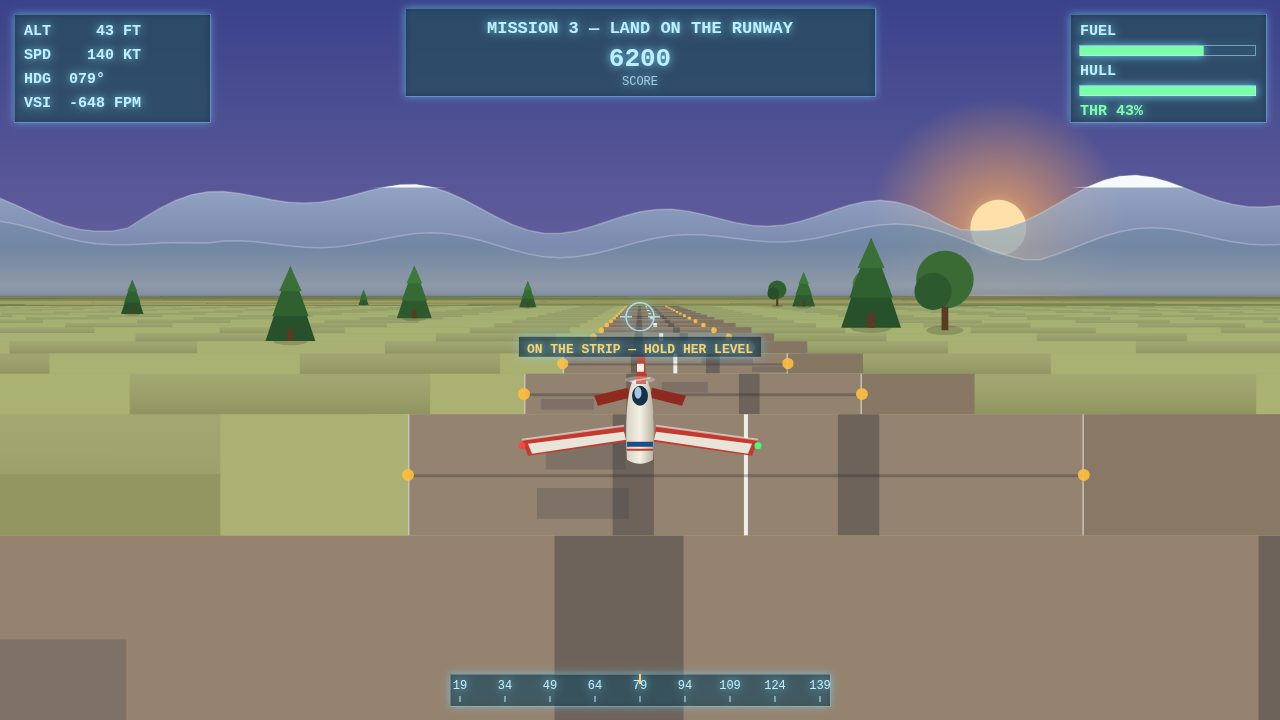
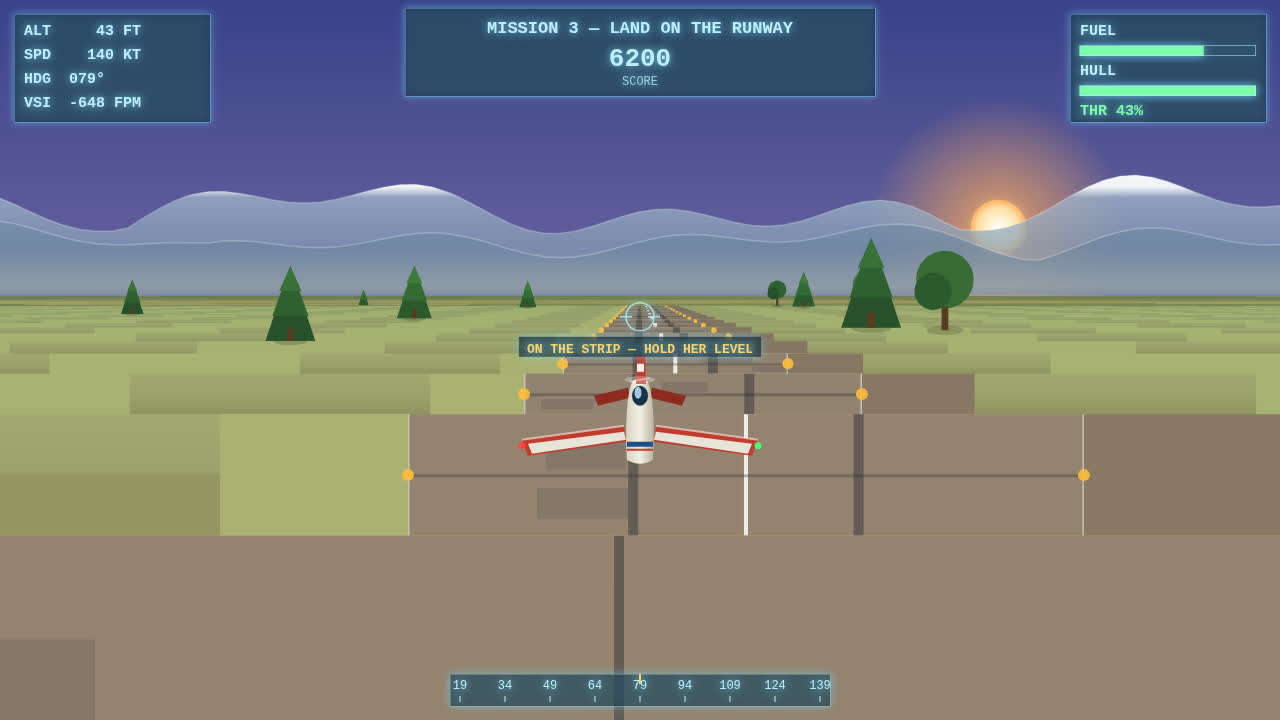
Sky Courier round 7: repo-knowledge visual fixes — round-5 tree cap was incomplete (canopy spans 1.7x scale, still 110px discs; cap drawn size at 40), snow caps get a gradient fade + lower line (hard flat edge read as white blobs), ground bands muted 35% toward olive (patchwork dressed the stripes b

diff --git a/game/src/render.js b/game/src/render.js
@@ -82,7 +82,13 @@ export function createRenderer(canvas) {
     glow.addColorStop(1, dusk ? 'rgba(255,170,90,0)' : 'rgba(255,220,140,0)');
     ctx.fillStyle = glow;
     ctx.fillRect(sx - 135, sy - 135, 270, 270);
-    ctx.fillStyle = dusk ? '#ffe0a8' : '#fff6d8';
+    // The disc itself is a radial gradient, bright in the middle and
+    // warm at the rim — a flat disc read as a pale sticker on the sky.
+    const disc = ctx.createRadialGradient(sx, sy, 2, sx, sy, dusk ? 28 : 26);
+    disc.addColorStop(0, '#fffdf2');
+    disc.addColorStop(0.7, dusk ? '#ffe0a8' : '#fff6d8');
+    disc.addColorStop(1, dusk ? '#ffb060' : '#ffe9a8');
+    ctx.fillStyle = disc;
     ctx.beginPath();
     ctx.arc(sx, sy, dusk ? 28 : 26, 0, Math.PI * 2);
     ctx.fill();
@@ -135,8 +141,17 @@ export function createRenderer(canvas) {
     // individual peaks reads as a white rash — a snow line caps only
     // the tallest humps, and each cap hugs its crest.
     if (layer === 0) {
-      const snowLine = horizonY - 105;
-      ctx.fillStyle = 'rgba(255,255,255,0.92)';
+      // The snow line sits a little lower now, so the caps are bigger,
+      // and the fill fades from white at the crest to clear at the line —
+      // snow melting into the rock, not a flat white blob pasted on the
+      // ridge (the round-5 caps read as white stickers on the drop and
+      // land shots because their lower edge was a hard horizontal line).
+      const snowLine = horizonY - 95;
+      const sg = ctx.createLinearGradient(0, horizonY - 125, 0, snowLine);
+      sg.addColorStop(0, 'rgba(255,255,255,0.95)');
+      sg.addColorStop(0.65, 'rgba(255,255,255,0.85)');
+      sg.addColorStop(1, 'rgba(255,255,255,0)');
+      ctx.fillStyle = sg;
       ctx.beginPath();
       let started = false;
       for (const [x, y] of ridge) {
@@ -198,9 +213,12 @@ export function createRenderer(canvas) {
     }
   }
 
-  function drawPlane(w, h, state, time) {
+  function drawPlane(w, h, state, time, screen) {
     const cx = w / 2;
-    const cy = h * 0.6 - state.pitch * 16;
+    // On the title screen the plane sits lower, clear of the panel:
+    // round 5 moved the panel up and the fuselage still hid behind it,
+    // wings sticking out either side like a bisected plane.
+    const cy = h * 0.6 - state.pitch * 16 + (screen === SCREEN_TITLE ? 80 : 0);
     const scale = Math.min(w, h) / 720;
     ctx.save();
     ctx.translate(cx, cy);
@@ -482,8 +500,9 @@ export function createRenderer(canvas) {
     const fadeOut = clamp((WINGMAN_Z1 - z) / 300, 0, 1);
     const peel = clamp((z - 1900) / 300, 0, 1);
     return {
-      d: 120, // metres ahead of the camera, in formation
-      x: state.x + 70 + peel * 150,
+      d: 100, // metres ahead of the camera, in formation — close enough
+      // to read as a formation partner, not a speck at the frame edge
+      x: state.x + 50 + peel * 130,
       alt: state.alt + 12 - peel * 40,
       alpha: Math.min(fadeIn, fadeOut),
       roll: -0.15 + peel * 0.6,
@@ -531,7 +550,13 @@ export function createRenderer(canvas) {
         const bandH = Math.abs(prevY - y) + 1.5;
         // A cross-road near the village, drawn as a full-width grey band.
         const crossRoad = !onRunway && z >= 5740 && z <= 5770;
-        const field = FIELDS[Math.floor(hash(i + Math.floor(camZ / SEG_LEN)) * FIELDS.length)];
+        const rawField = FIELDS[Math.floor(hash(i + Math.floor(camZ / SEG_LEN)) * FIELDS.length)];
+        // Mute every band toward one common olive tone: the bands still
+        // vary, but they stop alternating loudly enough to read as
+        // stacked paint stripes. Rounds 3 and 5 dressed the stripes
+        // with patchwork and furrows; the band colours themselves were
+        // the stripes — every shot still reads as horizontal bands.
+        const field = [Math.round(lerp(rawField[0], 118, 0.35)), Math.round(lerp(rawField[1], 138, 0.35)), Math.round(lerp(rawField[2], 88, 0.35))];
         // On the airfield the band is grass; the strip itself is drawn
         // separately below, so the runway reads as a strip in a field
         // instead of the whole world turning grey.
@@ -655,8 +680,11 @@ export function createRenderer(canvas) {
           // wider than the screen and nothing else reads on it.
           for (const side of [-1, 1]) {
             const tx = cx + side * ((camDepth * 6) / d);
-            const tw = Math.max(1.5, (camDepth * 2.2) / d);
-            ctx.fillStyle = 'rgba(52,52,60,0.4)';
+            // Clamped: at a few metres out the world-space width explodes
+            // (over 100 px at d = 8) and the marks read as giant dark
+            // slabs on the foreground asphalt, not wheel tracks.
+            const tw = Math.min(10, Math.max(1.5, (camDepth * 2.2) / d));
+            ctx.fillStyle = 'rgba(52,52,60,0.5)';
             ctx.fillRect(tx - tw / 2, topY, tw, bandH);
           }
           // Centreline dashes: 20 m of paint, 30 m of gap, in world space.
@@ -694,8 +722,11 @@ export function createRenderer(canvas) {
           if (bandH > 20) {
             for (let k = 0; k < 2; k += 1) {
               const rx2 = cx - half + hash(i * 83 + k * 29) * half * 2;
-              const rw2 = half * (0.2 + hash(i * 37 + k * 13) * 0.3);
-              ctx.fillStyle = 'rgba(60,60,70,0.25)';
+              // Clamped like the tyre marks: near the camera the strip
+              // is wider than the screen, so an unclamped patch becomes
+              // a giant dark rectangle on the foreground asphalt.
+              const rw2 = Math.min(180, half * (0.2 + hash(i * 37 + k * 13) * 0.3));
+              ctx.fillStyle = 'rgba(60,60,70,0.18)';
               ctx.fillRect(rx2, topY + bandH * (0.2 + k * 0.4), rw2, bandH * 0.25);
             }
           }
@@ -795,9 +826,11 @@ export function createRenderer(canvas) {
         // from far away instead of being a faint ellipse on the ground.
         if (!zn.hit) {
           const beamTop = Math.max(horizonY - 180, horizonY + (camDepth * (camAlt - (world.groundAt(zn.z) + 150))) / d);
-          const bw = Math.min(16, Math.max(2, rx * 0.18));
+          // Wider and brighter: at 200+ m the old 16 px beam was a faint
+          // thread, and the drop shot's target read as a small smudge.
+          const bw = Math.min(26, Math.max(3, rx * 0.28));
           const bg2 = ctx.createLinearGradient(0, gy, 0, beamTop);
-          bg2.addColorStop(0, `rgba(255,190,60,${0.45 + 0.15 * Math.sin(state.time * 4)})`);
+          bg2.addColorStop(0, `rgba(255,190,60,${0.55 + 0.2 * Math.sin(state.time * 4)})`);
           bg2.addColorStop(1, 'rgba(255,190,60,0)');
           ctx.fillStyle = bg2;
           ctx.fillRect(sx - bw / 2, beamTop, bw, gy - beamTop);
@@ -807,7 +840,7 @@ export function createRenderer(canvas) {
         ctx.ellipse(sx, gy, rx, ry, 0, 0, Math.PI * 2);
         ctx.fill();
         ctx.strokeStyle = zn.hit ? '#50ff8c' : '#ffbe3c';
-        ctx.lineWidth = 2;
+        ctx.lineWidth = 3;
         ctx.stroke();
         if (zn.hit) {
           ctx.fillStyle = '#50ff8c';
@@ -821,12 +854,14 @@ export function createRenderer(canvas) {
         if (d < 30) continue; // too close to read as a tree — it is beside the camera
         const sx = w / 2 + (camDepth * (t.x - camX)) / d;
         const gy = horizonY + (camDepth * (camAlt - world.groundAt(t.z))) / d;
-        // Cap the on-screen size: a tree a few dozen metres ahead would
-        // otherwise blow up into a giant green disc filling the frame
-        // (the drop shot's foreground trees). Real trees this close are
-        // beside the camera, not in it.
+        // Cap the DRAWN size, not the scale factor: the round canopy
+        // spans 1.7×s and a conifer crown 1.6×s, so the round-5 cap of
+        // 64 still let a foreground round tree bloom into a ~110 px
+        // green disc (the drop shot's foreground lollipops). At s ≤ 40
+        // a round canopy is ≤ 68 px across and a pine crown ≤ 64 px —
+        // a tree, not a disc.
         let s = (camDepth * 9 * t.s) / d;
-        s = Math.min(s, 64);
+        s = Math.min(s, 40);
         if (s < 2 || sx < -20 || sx > w + 20) continue;
         // Soft ground shadow so the tree sits on the field, not on top of it.
         ctx.fillStyle = 'rgba(0,0,0,0.16)';
@@ -946,6 +981,12 @@ export function createRenderer(canvas) {
         const sy = horizonY + (camDepth * (camAlt - r.alt)) / d;
         const rr = (camDepth * r.r) / d;
         if (rr < 3 || sx < -rr || sx > w + rr) continue;
+        // Far rings fade: the next-next ring should read as depth
+        // behind the one you are flying at, not as a second ring
+        // pasted concentrically on top of it (the play shot's
+        // near-concentric pair).
+        ctx.save();
+        ctx.globalAlpha = d > 320 ? 0.55 : 1;
         // Golden rings read gold, not yellow, and they sparkle — the
         // player should spot the 250-pointer a long way off.
         const col = r.hit ? '#50ff8c' : r.passed ? 'rgba(255,90,78,0.55)' : r.golden ? '#ffb020' : '#ffc93c';
@@ -1010,6 +1051,7 @@ export function createRenderer(canvas) {
         ctx.moveTo(sx, sy + rr * 0.94);
         ctx.lineTo(sx, gy);
         ctx.stroke();
+        ctx.restore();
       } else if (item.kind === 'balloon') {
         const bp = item.o;
         const sx = w / 2 + (camDepth * (bp.x - camX)) / d;
@@ -1142,7 +1184,7 @@ export function createRenderer(canvas) {
       }
     }
 
-    drawPlane(w, h, state, state.time);
+    drawPlane(w, h, state, state.time, screen);
     // Contrails streaming off the wingtips at speed.
     if (state.speed > 90 && screen === SCREEN_PLAY) {
       const scale = Math.min(w, h) / 720;
